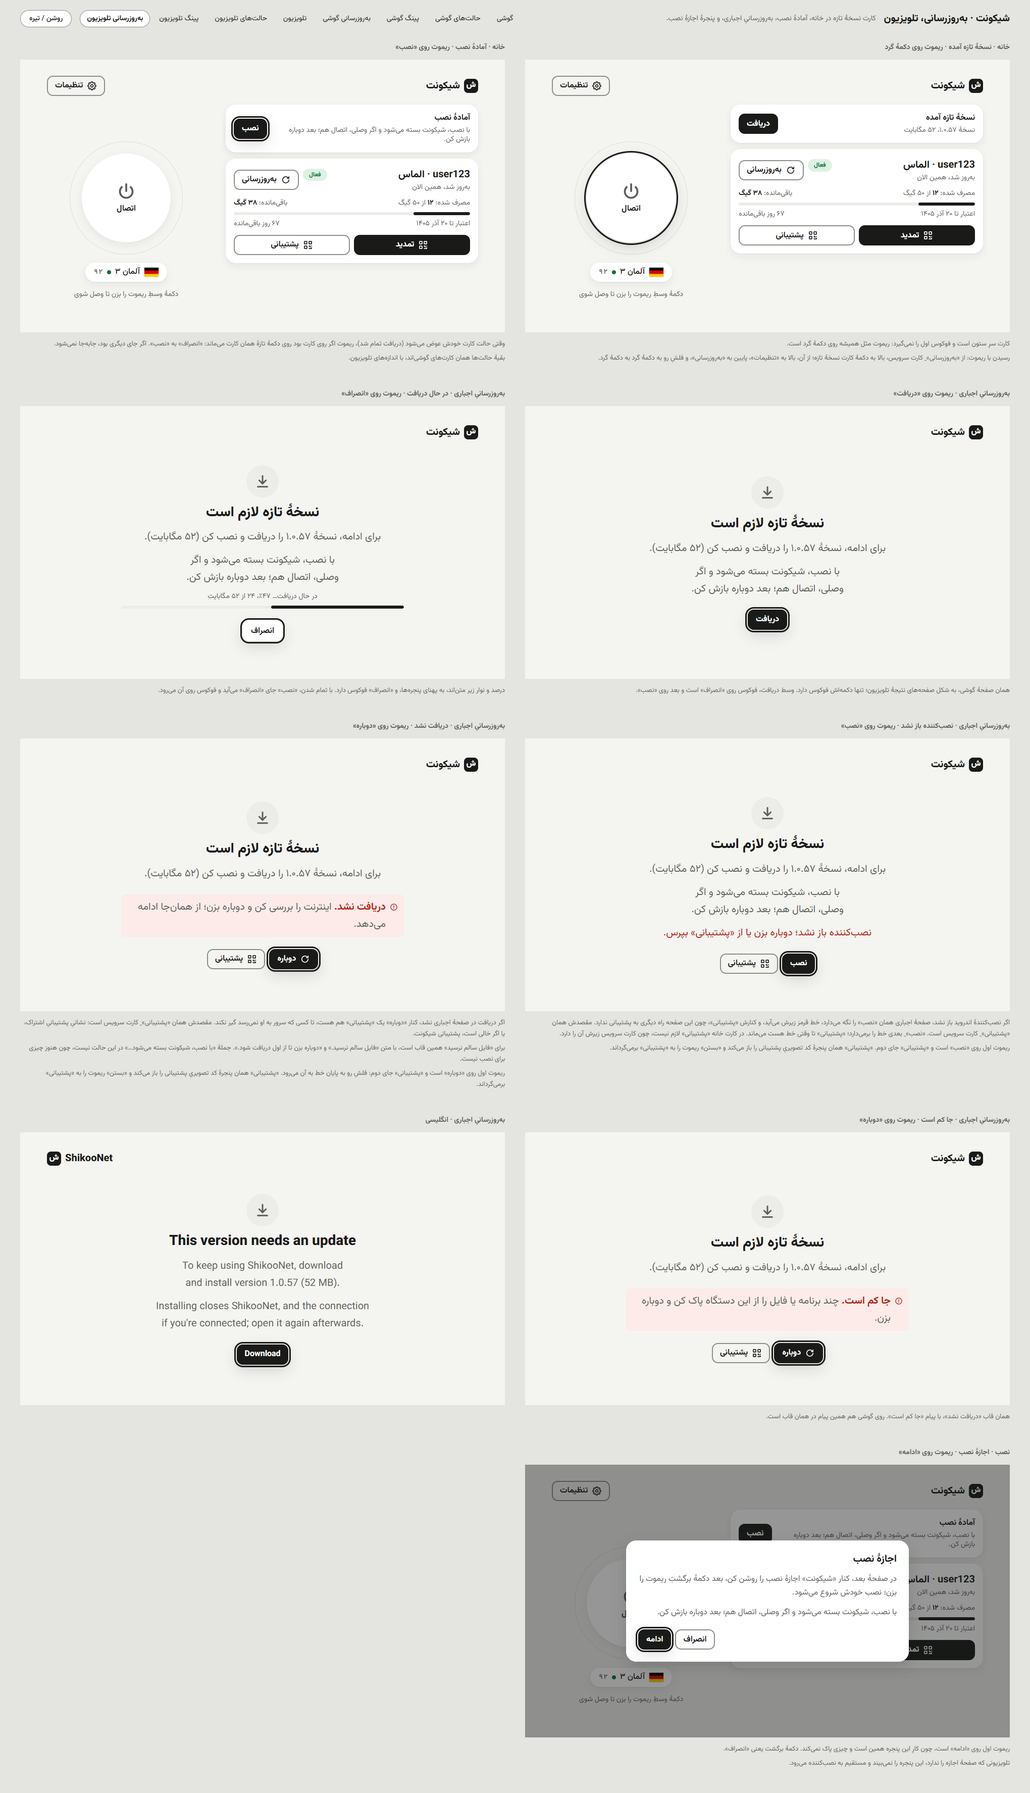
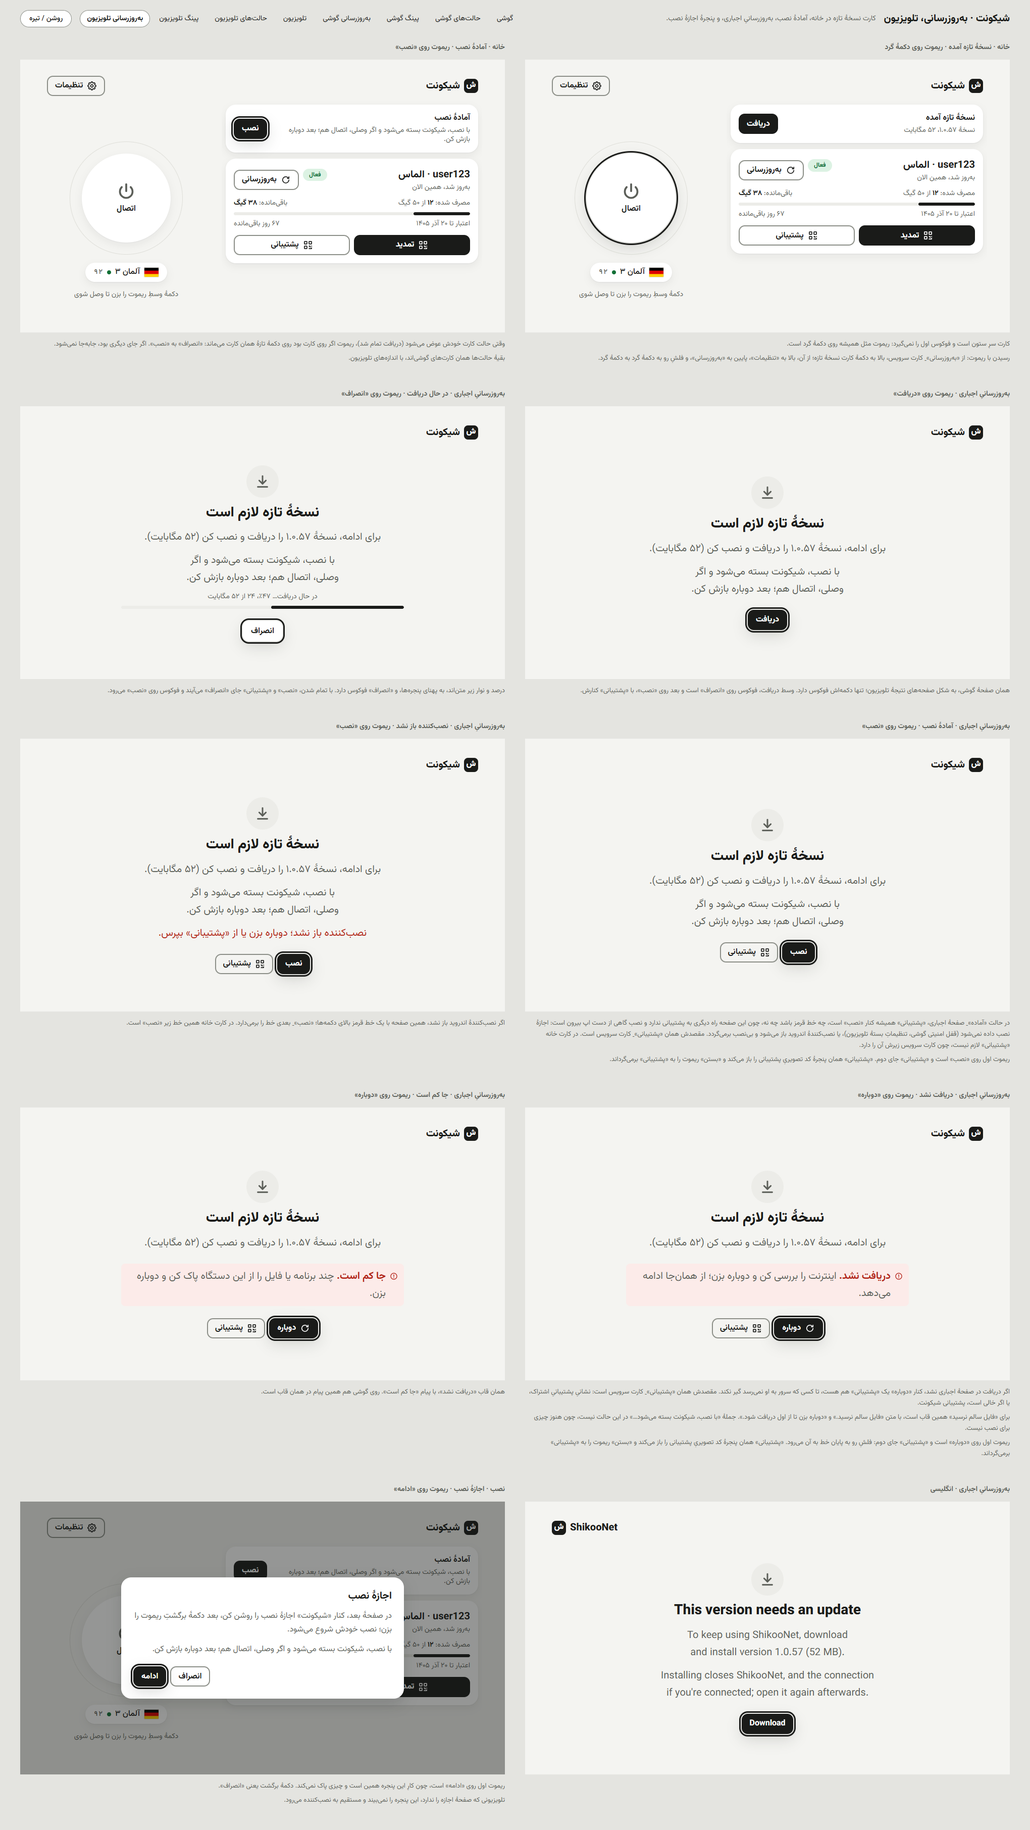
docs(design): keep Support beside Install on the forced page
The install can fail outside the app's hands: the permission is never
granted on a locked-down phone or TV, or the installer opens and comes
back without installing. The forced page's ready state now always
shows Support beside Install, with the remote on Install. Notes and
the arb description say where the red line sits: under Install on the
card, above the buttons on the forced page.

diff --git a/design/mockups/phone-update.html b/design/mockups/phone-update.html
@@ -108,7 +108,7 @@
     </div>
     <p class="note">از بالا: هست، در حال دریافت، آماده، دریافت نشد، فایل سالم نرسید، جا کم است، و «آماده» وقتی نصبکننده باز نشد. همینها روی تلویزیون هم هست.</p>
     <p class="note">«جا کم است» وقتی است که فایل در حافظهٔ دستگاه جا نمیشود. متنش برای گوشی و تلویزیون یکی است و از اینترنت حرفی نمیزند. «دوباره» از همانجا ادامه میدهد.</p>
-    <p class="note">اگر نصبکنندهٔ اندروید باز نشد، کارت همان «آماده» میماند و فقط یک خط قرمز زیرش میآید؛ حالت تازهای نیست. «نصب» ِ بعدی خط را برمیدارد. در صفحهٔ اجباری همین خط زیر «نصب» میآید، با «پشتیبانی» کنارش (قاب «نصبکننده باز نشد»).</p>
+    <p class="note">اگر نصبکنندهٔ اندروید باز نشد، کارت همان «آماده» میماند و فقط یک خط قرمز زیر «نصب» میآید؛ حالت تازهای نیست. «نصب» ِ بعدی خط را برمیدارد. در صفحهٔ اجباری همین خط بالای دکمههاست (قاب «نصبکننده باز نشد»).</p>
     <p class="note">«انصراف» دریافت را نگه میدارد و کارت به حالت اول برمیگردد؛ «دریافت» ِ بعدی از همانجا ادامه میدهد. روی تلویزیون، «انصراف» جای ریموت هم هست، تا وسط دریافت فوکوس جایی برود.</p>
     <p class="note">«دریافت نشد» یعنی اینترنت یا سرور وسط راه قطع شد؛ «دوباره» از همانجا ادامه میدهد. «فایل سالم نرسید» یعنی فایلِ کامل با نشانِ منتشرشده نخواند؛ فایل پاک میشود و «دوباره» از اول میگیرد.</p>
     <p class="note">حالتِ «در حال نصب» نداریم: «نصب» نصبکنندهٔ خودِ اندروید را باز میکند و اپ بسته میشود.</p>
@@ -129,7 +129,7 @@
       </div>
       <div class="gesture"></div>
     </div>
-    <p class="note">وقتی نسخهٔ این دستگاه دیگر پذیرفته نیست، این صفحه جای خانه را میگیرد و تنها دکمهاش «دریافت» است. بعد از زدن، همان حالتهای کارت را میگیرد: نوار و «انصراف»، بعد «نصب»، یا «دوباره».</p>
+    <p class="note">وقتی نسخهٔ این دستگاه دیگر پذیرفته نیست، این صفحه جای خانه را میگیرد و تنها دکمهاش «دریافت» است. بعد از زدن، همان حالتهای کارت را میگیرد: نوار و «انصراف»، بعد «نصب» و «پشتیبانی»، یا «دوباره» و «پشتیبانی».</p>
     <p class="note">خط وضعیتِ اتصال ندارد. اتصالی که از قبل روشن بوده روشن میماند، ولی از این صفحه کاری با آن نمیشود کرد، و نشانِ کلیدِ نوار وضعیتِ اندروید همین را میگوید. جملهٔ دوم فقط میگوید نصب چه میکند.</p>
     <p class="note">دکمهٔ برگشت این صفحه را نمیبندد؛ اپ را به پسزمینه میبرد.</p>
   </figure>
@@ -150,10 +150,28 @@
       </div>
       <div class="gesture"></div>
     </div>
-    <p class="note">پایین صفحه، جای «دریافت»: یک خط «در حال دریافت…» با درصد و مگابایت، نوار، و «انصراف». متن بالا عوض نمیشود تا صفحه نپرد. با تمام شدن، «نصب» جای «انصراف» میآید؛ اگر نصبکننده باز نشد، قاب بعدی.</p>
+    <p class="note">پایین صفحه، جای «دریافت»: یک خط «در حال دریافت…» با درصد و مگابایت، نوار، و «انصراف». متن بالا عوض نمیشود تا صفحه نپرد. با تمام شدن، «نصب» و «پشتیبانی» جای «انصراف» میآیند (قاب «آمادهٔ نصب»).</p>
     <p class="note">«انصراف» صفحه را به حالت اول برمیگرداند و «دریافت» ِ بعدی از همانجا ادامه میدهد. صفحهٔ اجباری بسته نمیشود.</p>
   </figure>
 
+  <figure class="shot">
+    <figcaption>بهروزرسانیِ اجباری · آمادهٔ نصب</figcaption>
+    <div class="phone" data-frame="phone-update-forced-ready">
+      <div class="statusbar"><span>۱۲:۴۰</span><svg><use href="#sb"/></svg></div>
+      <div class="login">
+        <div class="login-brand">
+          <span class="hero-icon muted"><svg class="icon"><use href="#i-download"/></svg></span>
+          <span class="word">نسخهٔ تازه لازم است</span>
+          <span class="sub">برای ادامه، نسخهٔ ۱.۰.۵۷ را دریافت و نصب کن (۵۲ مگابایت).</span>
+          <span class="sub">با نصب، شیکونت بسته میشود و اگر وصلی، اتصال هم؛ بعد دوباره بازش کن.</span>
+        </div>
+        <button class="btn btn-primary" type="button">نصب</button>
+        <button class="btn btn-outline" type="button">پشتیبانی</button>
+      </div>
+      <div class="gesture"></div>
+    </div>
+    <p class="note">در حالت «آماده» ِ صفحهٔ اجباری، «پشتیبانی» همیشه کنار «نصب» است، چه خط قرمز باشد چه نه، چون این صفحه راه دیگری به پشتیبانی ندارد و نصب گاهی از دست اپ بیرون است: اجازهٔ نصب داده نمیشود (قفل امنیتی گوشی، تنظیماتِ بستهٔ تلویزیون)، یا نصبکنندهٔ اندروید باز میشود و بینصب برمیگردد. مقصدش همان «پشتیبانی» ِ کارت سرویس است. در کارت خانه «پشتیبانی» لازم نیست، چون کارت سرویس زیرش آن را دارد.</p>
+  </figure>
   <figure class="shot">
     <figcaption>بهروزرسانیِ اجباری · نصبکننده باز نشد</figcaption>
     <div class="phone" data-frame="phone-update-forced-install-failed">
@@ -171,7 +189,7 @@
       </div>
       <div class="gesture"></div>
     </div>
-    <p class="note">اگر نصبکنندهٔ اندروید باز نشد، صفحهٔ اجباری همان «نصب» را نگه میدارد، خط قرمز زیرش میآید، و کنارش «پشتیبانی»، چون این صفحه راه دیگری به پشتیبانی ندارد. مقصدش همان «پشتیبانی» ِ کارت سرویس است. «نصب» ِ بعدی خط را برمیدارد؛ «پشتیبانی» تا وقتی خط هست میماند. در کارت خانه «پشتیبانی» لازم نیست، چون کارت سرویس زیرش آن را دارد.</p>
+    <p class="note">اگر نصبکنندهٔ اندروید باز نشد، همین صفحه با یک خط قرمز بالای دکمهها؛ «نصب» ِ بعدی خط را برمیدارد. در کارت خانه همین خط زیر «نصب» است.</p>
   </figure>
 
   <figure class="shot">
@@ -250,7 +268,7 @@
       <div class="gesture"></div>
     </div>
     <p class="note">فقط وقتی میآید که «نصب» زده شده و اندروید هنوز اجازهٔ نصب به شیکونت نداده. «ادامه» صفحهٔ همین اجازه را در تنظیمات اندروید باز میکند.</p>
-    <p class="note">شیائومی بعد از روشن کردنِ اجازه خودش به اپ برنمیگردد؛ پس متن میگوید «دکمهٔ برگشت». وقتی اپ دوباره جلو میآید و اجازه هست، نصبکننده بیدکمهٔ دیگری باز میشود. اگر اجازه هنوز نیست، کارت همان «آماده» میماند و «نصب» ِ بعدی همین پنجره را دوباره میآورد.</p>
+    <p class="note">شیائومی بعد از روشن کردنِ اجازه خودش به اپ برنمیگردد؛ پس متن میگوید «دکمهٔ برگشت». وقتی اپ دوباره جلو میآید و اجازه هست، نصبکننده بیدکمهٔ دیگری باز میشود. اگر اجازه هنوز نیست، کارت همان «آماده» میماند و «نصب» ِ بعدی همین پنجره را دوباره میآورد. در صفحهٔ اجباری هم همین است، و چون شاید اجازه هرگز داده نشود (قفل امنیتی، تنظیمات بسته)، «پشتیبانی» همیشه کنار «نصب» است (قاب «آمادهٔ نصب» ِ صفحهٔ اجباری).</p>
     <p class="note">دستگاهی که این صفحهٔ تنظیمات را ندارد، این پنجره را نمیبیند و مستقیم به نصبکننده میرود.</p>
   </figure>
 
@@ -349,6 +367,23 @@
     </div>
   </figure>
 
+  <figure class="shot">
+    <figcaption>گوشی کوچک، قلم ۱٫۴۵ · بهروزرسانیِ اجباری، آمادهٔ نصب</figcaption>
+    <div class="phone small" data-font-scale style="--font-scale: 1.45" data-frame="phone-small-update-forced-ready">
+      <div class="statusbar"><span>۱۲:۴۰</span><svg><use href="#sb"/></svg></div>
+      <div class="login">
+        <div class="login-brand">
+          <span class="hero-icon muted"><svg class="icon"><use href="#i-download"/></svg></span>
+          <span class="word">نسخهٔ تازه لازم است</span>
+          <span class="sub">برای ادامه، نسخهٔ ۱.۰.۵۷ را دریافت و نصب کن (۵۲ مگابایت).</span>
+          <span class="sub">با نصب، شیکونت بسته میشود و اگر وصلی، اتصال هم؛ بعد دوباره بازش کن.</span>
+        </div>
+        <button class="btn btn-primary" type="button">نصب</button>
+        <button class="btn btn-outline" type="button">پشتیبانی</button>
+      </div>
+      <div class="gesture"></div>
+    </div>
+  </figure>
   <figure class="shot">
     <figcaption>گوشی کوچک، قلم ۱٫۴۵ · بهروزرسانیِ اجباری، نصبکننده باز نشد</figcaption>
     <div class="phone small" data-font-scale style="--font-scale: 1.45" data-frame="phone-small-update-forced-install-failed">

diff --git a/design/mockups/tv-update.html b/design/mockups/tv-update.html
@@ -145,7 +145,7 @@
         </div>
       </div>
     </div>
-    <p class="note">همان صفحهٔ گوشی، به شکل صفحههای نتیجهٔ تلویزیون؛ تنها دکمهاش فوکوس دارد. وسط دریافت، فوکوس روی «انصراف» است و بعد روی «نصب».</p>
+    <p class="note">همان صفحهٔ گوشی، به شکل صفحههای نتیجهٔ تلویزیون؛ تنها دکمهاش فوکوس دارد. وسط دریافت، فوکوس روی «انصراف» است و بعد روی «نصب»، با «پشتیبانی» کنارش.</p>
   </figure>
 
   <figure class="shot">
@@ -165,9 +165,29 @@
         </div>
       </div>
     </div>
-    <p class="note">درصد و نوار زیر متناند، به پهنای پنجرهها، و «انصراف» فوکوس دارد. با تمام شدن، «نصب» جای «انصراف» میآید و فوکوس روی آن میرود.</p>
+    <p class="note">درصد و نوار زیر متناند، به پهنای پنجرهها، و «انصراف» فوکوس دارد. با تمام شدن، «نصب» و «پشتیبانی» جای «انصراف» میآیند و فوکوس روی «نصب» میرود.</p>
   </figure>
 
+  <figure class="shot">
+    <figcaption>بهروزرسانیِ اجباری · آمادهٔ نصب · ریموت روی «نصب»</figcaption>
+    <div class="tv" data-device="tv" data-frame="tv-update-forced-ready">
+      <header class="tv-top">
+        <div class="brand"><span class="mark">ش</span><span>شیکونت</span></div>
+      </header>
+      <div class="tv-result">
+        <span class="hero-icon muted"><svg class="icon"><use href="#i-download"/></svg></span>
+        <h1>نسخهٔ تازه لازم است</h1>
+        <p>برای ادامه، نسخهٔ ۱.۰.۵۷ را دریافت و نصب کن (۵۲ مگابایت).</p>
+        <p>با نصب، شیکونت بسته میشود و اگر وصلی، اتصال هم؛ بعد دوباره بازش کن.</p>
+        <div class="actions">
+          <button class="btn btn-primary is-focused" type="button">نصب</button>
+          <button class="btn btn-outline" type="button"><svg class="icon"><use href="#i-qr"/></svg>پشتیبانی</button>
+        </div>
+      </div>
+    </div>
+    <p class="note">در حالت «آماده» ِ صفحهٔ اجباری، «پشتیبانی» همیشه کنار «نصب» است، چه خط قرمز باشد چه نه، چون این صفحه راه دیگری به پشتیبانی ندارد و نصب گاهی از دست اپ بیرون است: اجازهٔ نصب داده نمیشود (قفل امنیتی گوشی، تنظیماتِ بستهٔ تلویزیون)، یا نصبکنندهٔ اندروید باز میشود و بینصب برمیگردد. مقصدش همان «پشتیبانی» ِ کارت سرویس است. در کارت خانه «پشتیبانی» لازم نیست، چون کارت سرویس زیرش آن را دارد.</p>
+    <p class="note">ریموت اول روی «نصب» است و «پشتیبانی» جای دوم. «پشتیبانی» همان پنجرهٔ کد تصویریِ پشتیبانی را باز میکند و «بستن» ریموت را به «پشتیبانی» برمیگرداند.</p>
+  </figure>
   <figure class="shot">
     <figcaption>بهروزرسانیِ اجباری · نصبکننده باز نشد · ریموت روی «نصب»</figcaption>
     <div class="tv" data-device="tv" data-frame="tv-update-forced-install-failed">
@@ -186,8 +206,7 @@
         </div>
       </div>
     </div>
-    <p class="note">اگر نصبکنندهٔ اندروید باز نشد، صفحهٔ اجباری همان «نصب» را نگه میدارد، خط قرمز زیرش میآید، و کنارش «پشتیبانی»، چون این صفحه راه دیگری به پشتیبانی ندارد. مقصدش همان «پشتیبانی» ِ کارت سرویس است. «نصب» ِ بعدی خط را برمیدارد؛ «پشتیبانی» تا وقتی خط هست میماند. در کارت خانه «پشتیبانی» لازم نیست، چون کارت سرویس زیرش آن را دارد.</p>
-    <p class="note">ریموت اول روی «نصب» است و «پشتیبانی» جای دوم. «پشتیبانی» همان پنجرهٔ کد تصویریِ پشتیبانی را باز میکند و «بستن» ریموت را به «پشتیبانی» برمیگرداند.</p>
+    <p class="note">اگر نصبکنندهٔ اندروید باز نشد، همین صفحه با یک خط قرمز بالای دکمهها؛ «نصب» ِ بعدی خط را برمیدارد. در کارت خانه همین خط زیر «نصب» است.</p>
   </figure>
 
   <figure class="shot">
